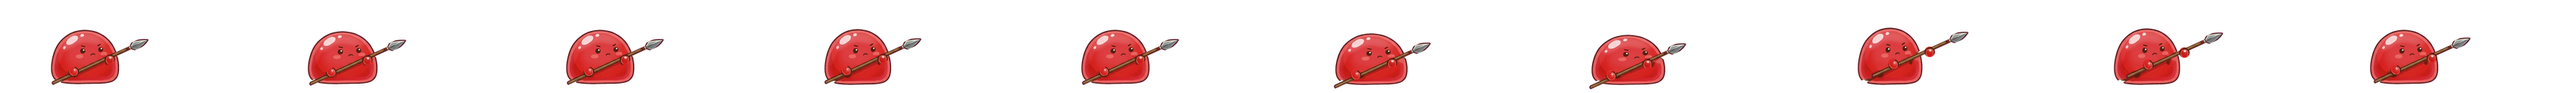
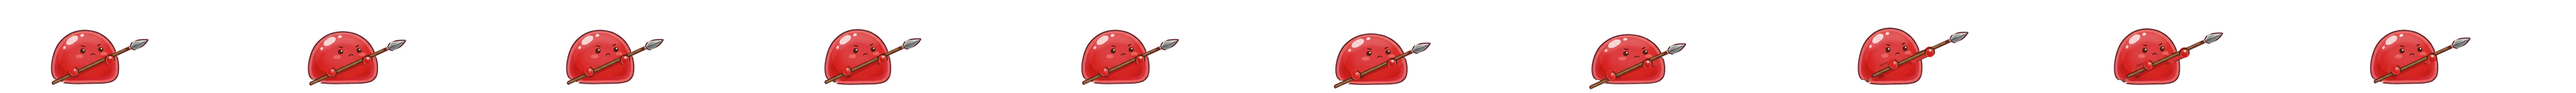
art: 창병 v2 찌르기 때 젤리 팔로 손이 몸과 이어지게, 몸 메움 다듬기
Claude-Session: https://claude.ai/code/session_01516Ff1v54x2e6qAyxX8oFK

diff --git a/art/tools/slime/build_spear_v2.py b/art/tools/slime/build_spear_v2.py
@@ -2,7 +2,7 @@
 python3 art/tools/slime/build_spear_v2.py → art/out/slime-v2/spear-rN.{png,json}, 미리보기 GIF·맵"""
 import json, os
 import numpy as np
-from PIL import Image
+from PIL import Image, ImageDraw
 D = 'art/source/gemini/slime-v2'; O = 'art/out/slime-v2'; P = 'art/preview/slime-v2'
 os.makedirs(O, exist_ok=True)
 RIG = json.load(open(f'{D}/spear-rig.json'))
@@ -11,6 +11,32 @@ PAD_L, PAD_R, PAD_T, PAD_B = 70, 150, 20, 12    # 찌르기 여유
 # (창대 방향 이동[원본px], 몸 sx, sy, 몸 x이동[원본px])
 IDLE = [(0, 1, 1, 0), (0, 1.025, .975, 0), (0, 1, 1, 0), (0, .98, 1.02, 0)]
 ATK = [(0, 1, 1, 0), (-45, 1.06, .94, -14), (-60, 1.08, .92, -18), (150, .95, 1.05, 22), (125, .97, 1.03, 16), (35, 1, 1, 4)]
+
+
+HAND_R = 40   # 원본 px
+
+
+def arms(m, k, anchor, body_ref, body_tf, off, W, H, col, ss=4):
+    ax, ay = anchor; cx, by = body_ref; sx, sy, mx = body_tf
+    img = Image.new('RGBA', (W*ss, H*ss)); d = ImageDraw.Draw(img)
+    out = (88, 26, 30, 255)
+    segs = []
+    for hx, hy in m['hands']:
+        # 몸 쪽 뿌리: 몸 변형을 따라감, 손 쪽: 무기 이동만큼
+        bx_ = ax + (mx + (hx - cx)*sx)*k; by_ = ay - (by - hy)*sy*k
+        tx_ = ax + (hx - cx)*k + off[0]; ty_ = ay - (by - hy)*k + off[1]
+        segs.append(((bx_*ss, by_*ss), (tx_*ss, ty_*ss)))
+    rb, rt = HAND_R*k*.85*ss, HAND_R*k*.78*ss
+    def capsule(p, q, r0, r1, fill):
+        p, q = np.array(p), np.array(q); v = q - p; L = np.hypot(*v) or 1; n = np.array([-v[1], v[0]])/L
+        d.polygon([tuple(p + n*r0), tuple(q + n*r1), tuple(q - n*r1), tuple(p - n*r0)], fill=fill)
+        d.ellipse([q[0]-r1, q[1]-r1, q[0]+r1, q[1]+r1], fill=fill)
+    lw = 1.6*k*ss*4
+    for p, q in segs: capsule(p, q, rb + lw, rt + lw, out)
+    for p, q in segs:
+        capsule(p, q, rb, rt, col + (255,))
+        d.ellipse([p[0]-rb-lw, p[1]-rb-lw, p[0]+rb+lw, p[1]+rb+lw], fill=col + (255,))   # 뿌리는 테두리 없이 몸에 녹아듦
+    return img.resize((W, H), Image.LANCZOS)
 
 
 def frames(r):
@@ -24,6 +50,8 @@ def frames(r):
     (bx0, by0), (tx, ty) = m['butt'], m['tip']
     L = np.hypot(tx-bx0, ty-by0); ux, uy = (tx-bx0)/L, (ty-by0)/L
     hand_h = by - np.mean([h[1] for h in m['hands']])
+    wa = np.asarray(wpn); hx0, hy0 = m['hands'][0]
+    hand_col = tuple(int(v) for v in np.median(wa[hy0-8:hy0+8, hx0+10:hx0+26, :3].reshape(-1, 3), 0))
     W = round(body.width*k) + PAD_L + PAD_R; H = round(body.height*k) + PAD_T + PAD_B + 20
     ax, ay = PAD_L + round(cx*k), H - PAD_B     # 앵커 = 몸 발밑 가운데
     def draw(d, sx, sy, mx):
@@ -32,6 +60,10 @@ def frames(r):
         b = body.resize((bw_, bh_), Image.LANCZOS)
         bx = ax + round(mx*k) - round(cx*k*sx); byy = ay - round(by*k*sy)
         c.alpha_composite(b, (bx, byy))
+        # 손이 몸에서 떨어지면 젤리 팔이 늘어나 이어지게 (몸 → 팔 → 손·창 순서)
+        dx, dy = (d*ux + mx)*k, d*uy*k - (sy-1)*hand_h*k
+        if abs(d) > 3:
+            c.alpha_composite(arms(m, k, (ax, ay), (cx, by), (sx, sy, mx), (dx, dy), W, H, hand_col))
         w = wpn.resize((round(wpn.width*k), round(wpn.height*k)), Image.LANCZOS)
         wx = ax - round(cx*k) + round((d*ux + mx)*k); wy = ay - round(by*k) + round(d*uy*k) - round((sy-1)*hand_h*k)
         c.alpha_composite(w, (wx, wy))

diff --git a/art/tools/slime/split_spear_v2.py b/art/tools/slime/split_spear_v2.py
@@ -46,9 +46,20 @@ def split(r):
     # 무기가 덮던 자리만 메움(손이 몸 테두리에 걸친 곳 포함). 깃털·모자 사이는 안 메움
     sil = big | (ndimage.binary_closing(big, iterations=45) & weapon)
     sil = ndimage.binary_fill_holes(sil)
+    # 창이 몸 테두리를 지나던 곳의 실루엣을 둥글게 다듬음
+    near = ndimage.binary_dilation(weapon, iterations=25)
+    smooth = ndimage.gaussian_filter(ndimage.binary_closing(sil, iterations=30).astype(float), 9) > .5
+    sil = np.where(near, smooth, sil)
     hole = sil & ndimage.binary_dilation(weapon | (a[..., 3] <= 128), iterations=3)
-    rgb = cv2.inpaint(np.ascontiguousarray(a[..., :3]), (hole*255).astype(np.uint8), 9, cv2.INPAINT_TELEA)
-    rgb = np.where(hole[..., None], cv2.GaussianBlur(rgb, (0, 0), 2.5), rgb)
+    lum = a[..., :3].astype(float) @ [.3, .59, .11]
+    edge = sil & ~ndimage.binary_erosion(sil, iterations=7)          # 몸 테두리 띠
+    dark_near = ndimage.binary_dilation(hole, iterations=8) & (lum < 90) & ~edge
+    fillm = (hole | dark_near) & ~edge | (hole & edge)
+    rgb = cv2.inpaint(np.ascontiguousarray(a[..., :3]), (fillm*255).astype(np.uint8), 12, cv2.INPAINT_TELEA)
+    # 메운 자리의 몸 테두리는 외곽선 색으로 다시 그음
+    rim = hole & ~ndimage.binary_erosion(sil, iterations=5)
+    rgb[rim] = [74, 24, 26]
+    rgb = np.where((fillm & ~rim)[..., None], cv2.GaussianBlur(rgb, (0, 0), 2.5), rgb)
     ba = np.dstack([rgb, np.where(sil, np.maximum(a[..., 3], 255*hole), 0)]).astype(np.uint8)
     ba[..., 3] = np.where(sil, np.where(hole, 255, a[..., 3]), 0)
     # 몸 중심(무기 제외) — 열 기준
